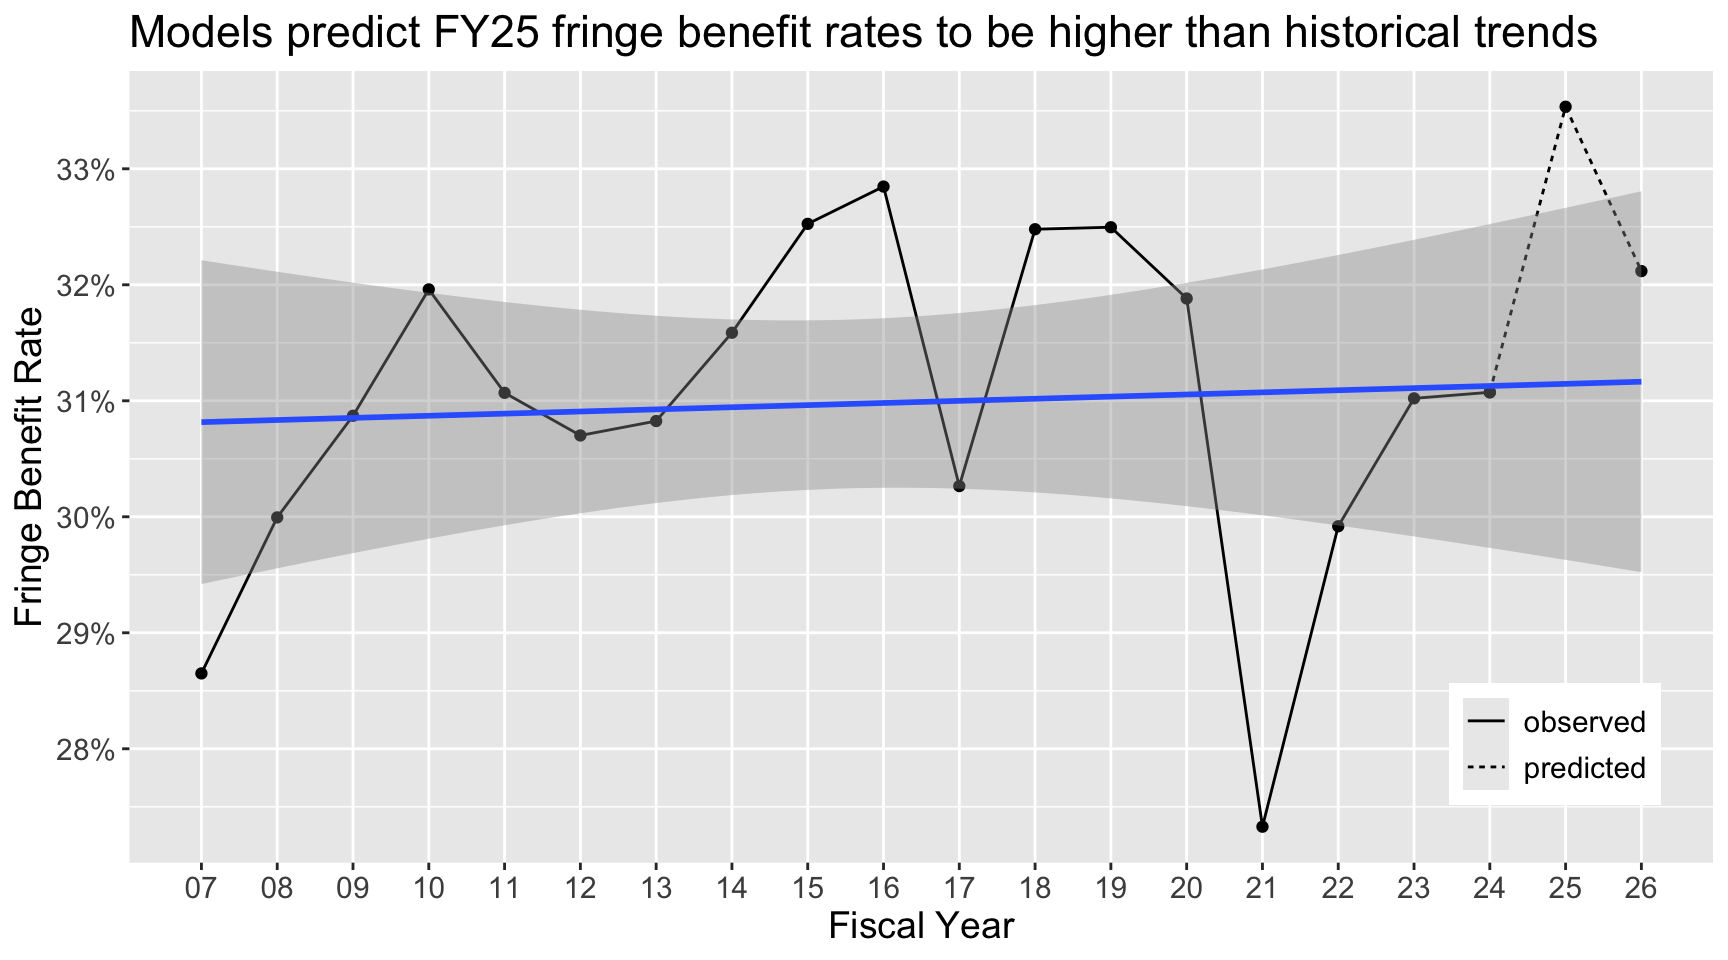
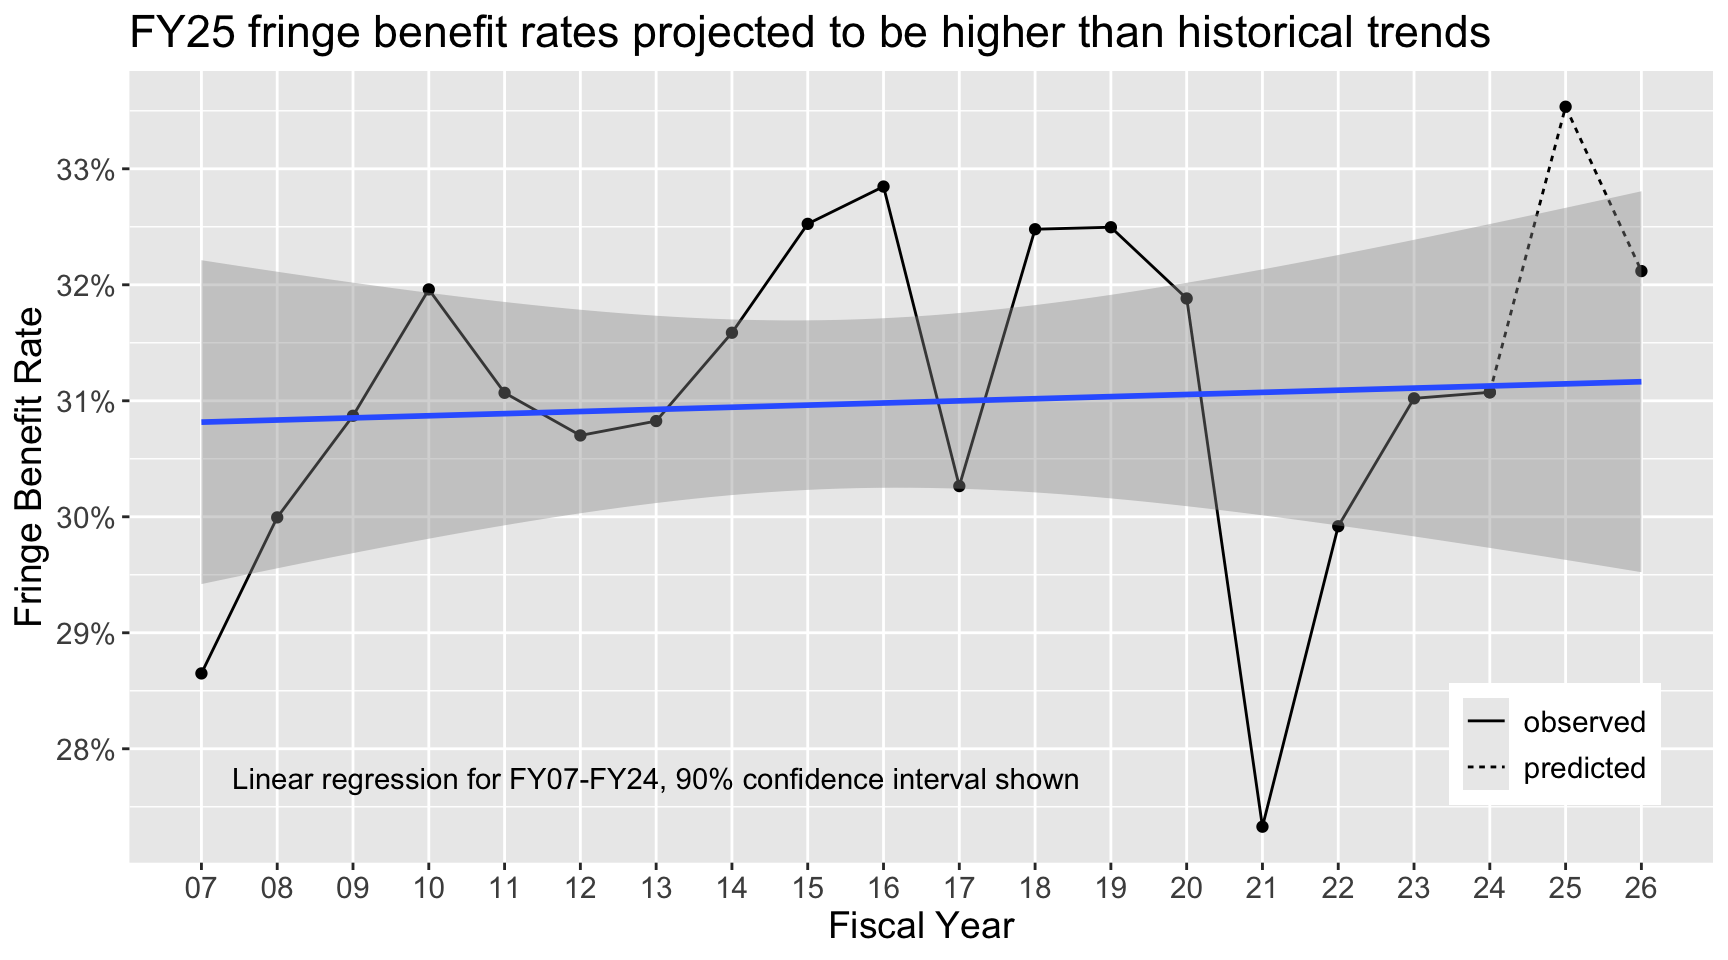
fixing alt text

Changed region(s): [[0.0625, 0.0, 0.9375, 0.0625], [0.1562, 0.7812, 0.625, 0.8438]]

diff --git a/docs/a-lesson-in-visualization.html b/docs/a-lesson-in-visualization.html
@@ -175,7 +175,7 @@ ul.task-list li input[type="checkbox"] {
 <p>When I teach this class, we spend lots of time discussing ways to not mislead viewers. I would like to critically delve into one particular visualization to break down some of these areas, discuss the harm these misleading elements cause, and suggest improvements to the visualiation. This visual was presented by university administrators at a faculty meeting discussing budget planning around employee benefits. Specifically, the plot shows the change over time in fringe benefit rate. Fringe benefit rate would be computed as the ratio of non-salary compensation (such as health insurance, retirement, and tution remission) to overall compensation. For example, if my salary were $70,000 and my benefits totalled to $30,000, my fringe benefit rate would be 30%.</p>
 <div class="quarto-figure quarto-figure-center">
 <figure class="figure">
-<p><img src="assets/img/original_plot.JPG" class="img-fluid figure-img" alt="A line plot showing how fringe benefit rates change from FY07 to FY26. The rate fluctuates over time with a very slight upward trend. A thick red arrow is overlaid with a steeply increasing angle."></p>
+<p><img src="assets/img/original_plot.JPG" class="img-fluid figure-img" alt="A line plot showing how fringe benefit rates change from FY07 to FY26. The rate fluctuates over time, ranging from around 27% to 33% with a slight upward trend. A thick red arrow which does not pass through the data is overlaid with a steeply increasing angle."></p>
 <figcaption>A screenshot of the original visualization, showing the change in fringe benefit rates from fiscal years 2007-2026.<a href="#fn1" class="footnote-ref" id="fnref1" role="doc-noteref"><sup>1</sup></a></figcaption>
 </figure>
 </div>
@@ -192,7 +192,7 @@ ul.task-list li input[type="checkbox"] {
 <div class="cell-output-display">
 <div>
 <figure class="figure">
-<p><img src="a-lesson-in-visualization_files/figure-html/unnamed-chunk-2-1.png" class="img-fluid figure-img" width="864"></p>
+<p><img src="a-lesson-in-visualization_files/figure-html/unnamed-chunk-2-1.png" class="img-fluid figure-img" alt="Updated line plot of fringe benefit rate from 2007-2026. The same data is shown but now observed values are connected by a solid line as opposed to predicted values shown in a dashed line." width="864"></p>
 </figure>
 </div>
 </div>
@@ -206,7 +206,7 @@ ul.task-list li input[type="checkbox"] {
 <div class="cell-output-display">
 <div>
 <figure class="figure">
-<p><img src="a-lesson-in-visualization_files/figure-html/unnamed-chunk-3-1.png" class="img-fluid figure-img" width="864"></p>
+<p><img src="a-lesson-in-visualization_files/figure-html/unnamed-chunk-3-1.png" class="img-fluid figure-img" alt="Updated line plot of fringe benefit rates over time. Now, a linear regression is overlaid and shows a nearly flat progression, much shallower than the original red line." width="864"></p>
 </figure>
 </div>
 </div>
@@ -217,7 +217,7 @@ ul.task-list li input[type="checkbox"] {
 <div class="cell-output-display">
 <div>
 <figure class="figure">
-<p><img src="a-lesson-in-visualization_files/figure-html/unnamed-chunk-4-1.png" class="img-fluid figure-img" width="864"></p>
+<p><img src="a-lesson-in-visualization_files/figure-html/unnamed-chunk-4-1.png" class="img-fluid figure-img" alt="Updated line plot of fringe benefit rates over time. Now, a different linear regression is overlaid and shows a higher increase than before, but much shallower than the original red line." width="864"></p>
 </figure>
 </div>
 </div>
@@ -236,7 +236,7 @@ ul.task-list li input[type="checkbox"] {
 <div class="cell-output-display">
 <div>
 <figure class="figure">
-<p><img src="a-lesson-in-visualization_files/figure-html/unnamed-chunk-5-1.png" class="img-fluid figure-img" width="864"></p>
+<p><img src="a-lesson-in-visualization_files/figure-html/unnamed-chunk-5-1.png" class="img-fluid figure-img" alt="Four plots show different time windows of the data, each connecting the first and last observations with a red line. The slope of the line changes signficantly betweent the four plots, some are increasing and some are decreasing." width="864"></p>
 </figure>
 </div>
 </div>
@@ -246,12 +246,12 @@ ul.task-list li input[type="checkbox"] {
 <div class="cell-output-display">
 <div>
 <figure class="figure">
-<p><img src="a-lesson-in-visualization_files/figure-html/unnamed-chunk-6-1.png" class="img-fluid figure-img" width="864"></p>
+<p><img src="a-lesson-in-visualization_files/figure-html/unnamed-chunk-6-1.png" class="img-fluid figure-img" alt="Final update of the same fringe benefit rate line plot over time. The same original data is shown, with observed values in solid and predicted values in dashed lines. A linear regression shows a very slight increase in rates over time, and a 90% confidence interval highlights that FY25 values are above expectation. Title reads FY25 fringe benefit rates projected to be higher than historical trends." width="864"></p>
 </figure>
 </div>
 </div>
 </div>
-<p>This plot shows the data exactly: the observed values are clearly different from the predicted values, sound statistics are used to show the historical trend, and a confidence interval shows that the FY25 rates are in fact higher than we could have expected based on the trend. The title also shares the main conclusion, which I believe is true to the plots’ original intention: FY25 fringe benefits are more expensive than normal. It would be important to know how the projections for FY25 and FY26 were computed. I have no doubt (and sincerely hope) that these are estimated by a model more sophisticated than linear regression.</p>
+<p>This plot shows the data exactly: the observed values are clearly different from the projected values, sound statistics are used to show the historical trend, and a 90% confidence interval shows that the FY25 rates are in fact higher than we could have expected based on the trend. The title also shares the main conclusion, which I believe is true to the plots’ original intention: FY25 fringe benefits are more expensive than normal. It would be important to know how the projections for FY25 and FY26 were computed. I have no doubt (and sincerely hope) that these are estimated by a model more sophisticated than linear regression.</p>
 </section>
 </section>
 <section id="please-show-your-work" class="level2">
